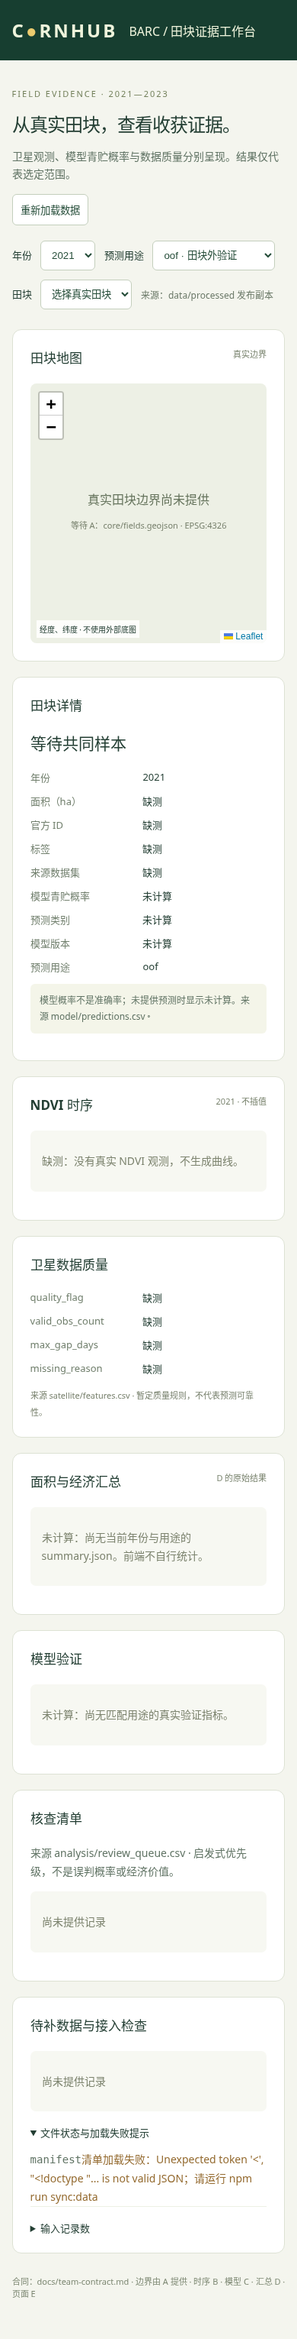
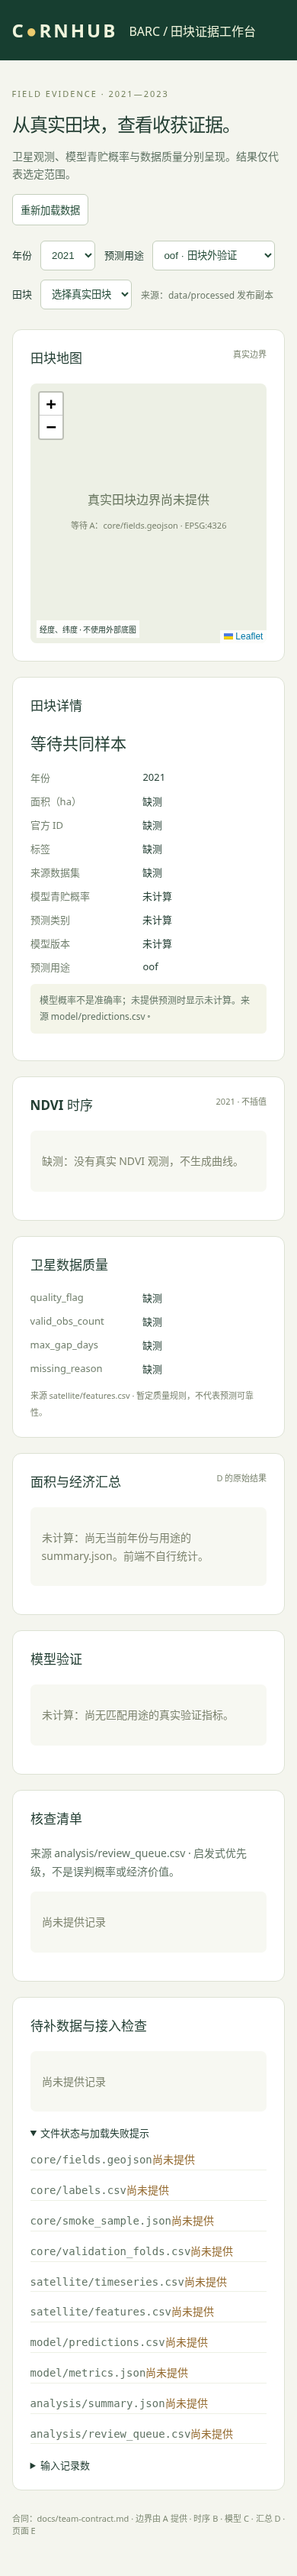
docs(web): update blockers after syncing official materials from main

diff --git a/reports/e_web/README.md b/reports/e_web/README.md
@@ -1,6 +1,6 @@
 # 成员 E 第一阶段交付与验收
 
-负责人：E。分支：`work/e-web`。基线 `b603997`（main 的团队合同）。本轮仅新增 web 和 reports/e_web，无前端可沿用，无 AGENTS.md。没有公开部署、改动队友目录或根配置。
+负责人：E。分支：`work/e-web`。起始基线 `b603997`（main 的团队合同），交付前无冲突合入最新主线 `51d5989`。PR：https://github.com/superboycyc-dot/CornHub/pull/2 。本轮仅新增 web 和 reports/e_web，无前端可沿用，无 AGENTS.md；已补读新主线的协作、提交和官方挑战规则。没有公开部署、改动队友目录或根配置。
 
 交付：React + Vite + Leaflet 本地页面；重复执行的逐字节数据同步；README；输入检查与浏览器验收脚本；桌面和手机空状态截图；来源记录。
 
@@ -16,7 +16,7 @@
 
 ## 当前真实数据验收
 
-实际输入：`data/processed/usda_nass/corn_state_benchmarks_2025.csv` 已同步，未接入 BARC 视图。合同 core 4 文件、satellite 2 文件、model 2 文件、analysis 2 文件全缺。故真实边界数、匹配数和真实模型结果均无法验收，不报告为零田块或成功联通。
+实际输入：最新主线含 `barc_field_year_labels.csv`、`usda_nass/corn_state_benchmarks_2025.csv`、`usda_nass/california_corn_acreage_annual_reference_2012_2025.csv`，均原样同步。旧标签表的原始 ID/harvest_type/acres 不符合合同，未自行转换或接入 BARC 视图；州级统计也未接入。合同 core 4 文件、satellite 2 文件、model 2 文件、analysis 2 文件全缺。故真实边界数、匹配数和真实模型结果均无法验收，不报告为零田块或成功联通。
 
 页面显示尚未提供/缺测/未计算；读取失败显示具体文件和原因。边界未交付时无默认伪造样区。地图坐标按 GeoJSON 经度在前交由 Leaflet 转换，面积仅显示 A 的 area_ha。数据质量与模型概率单列；summary 使用 D 结果，不复制统计算法。不会混合 OOF 与 inference。
 
@@ -33,6 +33,6 @@
 |C|model/predictions.csv、metrics.json|p_silage、类别、role、模型版本、真实验证指标|
 |D|analysis/summary.json、review_queue.csv|选定年和 role 的 scope/面积/覆盖率/经济情景、原始核查顺序与理由|
 
-官方原件的准确下载位置与建议落盘位置见 `web/README.md`。由 A 核实官方使用限制、CRS、标签与许可；E 不生成 ID。由 B 按官方 notebook 提取真实观测。C 未训练维持空值，D 无参数维持经济情景 null。
+最新主线已包含官方 GPKG、explorer notebook、根目录 challenge_statement.md 和 sentinel-2_starter_notebook.ipynb，无需用户重复下载。实际路径见 `web/README.md`。由 A 核实官方使用限制、CRS、标签与许可；E 不生成 ID。由 B 按官方 notebook 提取真实观测。C 未训练维持空值，D 无参数维持经济情景 null。
 
 需要 A 处理的文档冲突：根 README 的加州 2022–2026/英亩/旧核查公式与新合同的 BARC 2021–2023/公顷规则不同。本次依用户要求遵循团队合同，未越权修改根文件。

diff --git a/web/README.md b/web/README.md
@@ -46,12 +46,13 @@ summary 必须与选择的 year 和 role 一致，直接显示 D 的数值、sco
 
 真实样本截图尚未完成：A/B/C/D 的合同文件当前全缺。数据到齐后运行同步并打开共同样本，核实来源后截图，存 `reports/e_web/real-sample.png`。不能用已有加州州级统计或测试夹具代替 BARC 真实样本。
 
-A 需要从已登录团队 JupyterLab 下载原件：
-https://hacktheharvest.farmgpu.net/anaheim04-8892/lab
+最新主线 `51d5989` 已包含官方材料，已同步到本地，无需再次手工下载：
 
-- `04_Evaluation/BARC_Corn.2021-2023.gpkg` → `data/raw/barc/BARC_Corn.2021-2023.gpkg`
-- `04_Evaluation/barc_fields_explorer.ipynb` → `data/raw/barc/barc_fields_explorer.ipynb`
-- `01_Challenge/challenge_statement.md` → `data/raw/barc/challenge_statement.md`
-- B 需要 `03_Geospatial_References/starter_notebook.ipynb`，建议交给 B 存 `notebooks/b_satellite/starter_notebook.ipynb`。
+- `04_Evaluation/BARC_Corn.2021-2023.gpkg`
+- `04_Evaluation/barc_fields_explorer.ipynb`
+- 根目录 `challenge_statement.md`
+- `03_Geospatial_References/sentinel-2_starter_notebook.ipynb`（实际文件名与合同示例不同）
 
-这些路径由对应负责人创建，本次 E 不修改它们。原件许可不明不提交公开仓库。E 应接 A 生成的 core 文件，不在前端从 GPKG 生成 ID/面积/标签。
+另有 `data/processed/barc_field_year_labels.csv`：列为原始 field_id、year、harvest_type、acres，不是合同的 core/labels.csv。E 不自行给原 ID 加前缀、不转换标签及面积；需 A 统一提供 core 与不可变 ID 映射，再由 B/C/D 按该 ID 交付。现有 notebook 原型不代表合同路径的数据已经生成。
+
+若其他电脑缺少这些文件，先 `git pull` 获取最新主线。仅当主线也没有时，才从 https://hacktheharvest.farmgpu.net/anaheim04-8892/lab 下载合同列出的原件，交给 A/B 保留上述实际路径。原件许可及训练/评估用途由 A 核实，E 不复制原件到公开数据目录。
